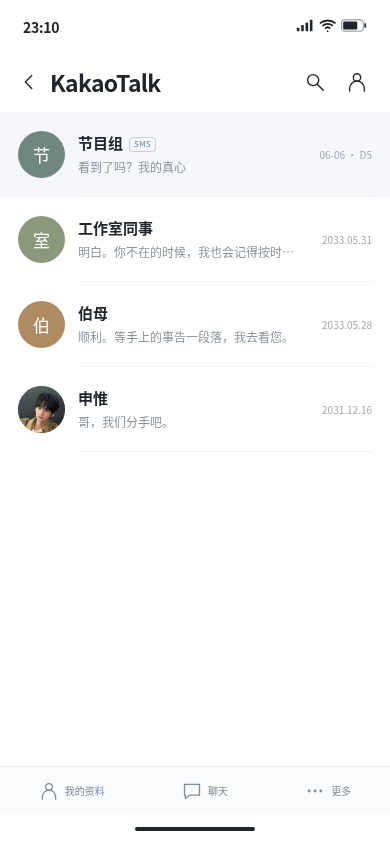
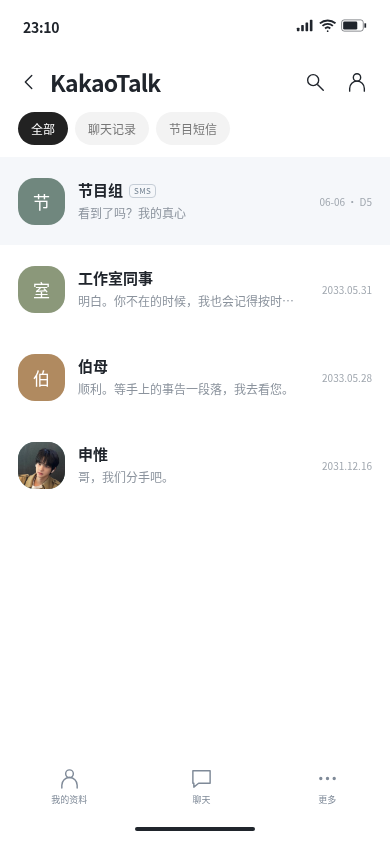
Refine KakaoTalk and iOS-style notes and lock screen

diff --git a/index.html b/index.html
@@ -4283,6 +4283,16 @@ body{background:#141922;color:#20252c;font-family:-apple-system,BlinkMacSystemFo
 @media(max-width:350px){.home{padding:7px 17px 0}.widgets{gap:12px;margin-bottom:20px}.sys-widget{height:111px;padding:13px}.sys-widget .day-number{font-size:40px}.clock-widget svg{width:76px;height:76px}.appgrid{gap:19px 8px}.app-icon{width:51px;height:51px;border-radius:13px}.app{font-size:10px}.dock{padding:10px 13px 6px;border-radius:24px}.dock .app{min-height:51px}.page-dots{padding-bottom:10px}.desktop-spacer{min-height:12px}.chat-list-page .row{padding-left:14px;padding-right:14px}.bubble{font-size:12px}.message-content{max-width:calc(100% - 56px)}}
 @media(max-height:650px){.home{padding-top:3px}.widgets{margin-bottom:15px}.sys-widget{height:105px}.clock-widget svg{height:74px;width:74px}.appgrid{row-gap:16px}.desktop-spacer{min-height:12px}.page-dots{padding-bottom:9px}}
 
+
+/* Reference-led KakaoTalk and iOS surfaces; story data stays in CONFIG. */
+#view[data-page="notes"],#view[data-page="note"]{overflow:hidden}
+.phone[data-mode="notes"],.phone[data-mode="notes"] .status,.phone[data-mode="notes"] .bottom{background:#f2f2f7;color:#111}
+.phone[data-mode="note"],.phone[data-mode="note"] .status,.phone[data-mode="note"] .bottom{background:#fff;color:#111}
+.ios-notes,.ios-note{height:100%;display:flex;flex-direction:column;color:#111;background:#f2f2f7;min-height:0}
+.ios-note{background:#fff}.notes-top{display:flex;align-items:center;justify-content:space-between;gap:12px;padding:10px 16px 17px;flex-shrink:0}.notes-top>div{text-align:center;font-size:16px}.notes-top small{display:block;color:#929297;font-size:12px;margin-top:3px}.glass-button{height:43px;width:43px;border-radius:50%;display:grid;place-items:center;background:#ffffffba;border:1px solid #fff;box-shadow:0 5px 25px #00000008;backdrop-filter:blur(20px);padding:10px;flex-shrink:0}.glass-button svg{width:23px;height:23px}.notes-scroll{flex:1;min-height:0;overflow:auto;padding:0 16px 22px}.notes-scroll h2{font-size:27px;margin:10px 0 19px;letter-spacing:-1px}.notes-group{border-radius:24px;background:white;overflow:hidden}.note-row{display:block;background:white;text-align:left;width:100%;padding:15px 19px;position:relative;min-width:0}.note-row[hidden]{display:none}.note-row+.note-row:before{content:'';position:absolute;top:0;left:19px;right:0;border-top:1px solid #e7e7eb}.note-row strong{display:block;font-size:16px;white-space:nowrap;overflow:hidden;text-overflow:ellipsis}.note-preview{font-size:14px;color:#909095;white-space:nowrap;overflow:hidden;text-overflow:ellipsis;margin-top:5px}.note-date{font-size:11px;color:#97979c;margin-top:5px;line-height:1.5}.notes-search{margin:8px 17px 6px;border:1px solid #fff;border-radius:28px;padding:12px 15px;background:#ffffffc9;box-shadow:0 5px 24px #00000009;display:flex;align-items:center;gap:8px;flex-shrink:0}.notes-search svg{width:22px;height:22px}.notes-search input{width:100%;min-width:0;border:0;background:none;font:inherit;font-size:17px;outline:none}.read-only-tag,.note-mode{font-size:11px;color:#929297;white-space:nowrap}.ios-note .note-paper{flex:1;min-height:0;overflow:auto;background:#fff;padding:5px 24px 30px;margin:0;border:0;border-radius:0;box-shadow:none}.note-paper .timestamp{text-align:center;color:#a0a0a5;font-size:11px;margin:0 0 22px;line-height:1.5}.note-paper h3{font-size:25px;color:#111;line-height:1.4;margin:0 0 18px;letter-spacing:-.6px}.note-paper .prose{font-size:16px;line-height:1.9;color:#252525;overflow-wrap:anywhere}.note-bottom{display:flex;align-items:center;gap:12px;margin:8px 22px;padding:12px 17px;border-radius:28px;box-shadow:0 3px 30px #00000008;background:#fff;color:#999;font-size:11px;align-self:flex-start}.note-bottom svg{width:22px;height:22px;color:#cc9b00}
+.chat-filters{display:flex;gap:7px;padding:0 18px 12px;font-size:12px;color:#777}.chat-filters button{border-radius:19px;padding:8px 13px;background:#f3f3f3}.chat-filters .selected{background:#222;color:#fff}.chat-list-page .row:after{display:none}.chat-list-page .row{min-height:88px}.chat-list-page .avatar,.message .avatar{border-radius:36%}.chat-list-nav{background:#fff;border:0;height:56px}.chat-list-nav button{flex-direction:column;gap:3px;font-size:9px}.chat-list-nav svg{width:23px;height:23px}.chat .header h2{text-align:center}.chat .header{min-height:50px}.chat,.chat .header,.phone[data-mode="chat"] .status,.phone[data-mode="chat"] .bottom{background:#abc1d0}.bubble{font-size:14px;line-height:1.5;border-radius:13px;padding:9px 11px;box-shadow:none}.self .bubble{background:#fee500;border-radius:13px}.first-message:not(.self) .bubble-line .bubble{border-top-left-radius:3px}.self.first-message .bubble{border-top-right-radius:3px}.message{margin-top:5px;margin-bottom:5px}.message.first-message{margin-top:17px}.sender-name{font-size:11px;margin-bottom:5px}.msgtime{font-size:9px}.day{margin:19px 0 23px}.day span{background:#6c829263;color:#fff;padding:6px 13px;border-radius:20px}.readonly-composer{background:#fff;min-height:51px}.readonly-composer span.composer-label{background:#f2f2f2;border:0;font-size:12px;color:#a1a1a5}.phone[data-mode="chat"] .bottom{background:#fff}
+.dock{background:#e4edff3b;border:1px solid #ffffff55;box-shadow:inset 0 1px 0 #ffffff66,0 6px 20px #00000012;backdrop-filter:blur(30px) saturate(1.5);-webkit-backdrop-filter:blur(30px) saturate(1.5);border-radius:33px}.sys-widget{border-radius:27px}.app-icon{border:1px solid #ffffff24;box-shadow:inset 0 1px 0 #ffffff44,0 3px 7px #0002}.lock{padding-top:13px}.lock-label svg{width:17px;height:17px}.lock .date{font-size:17px;letter-spacing:0;margin-top:12px;font-weight:500}.lock .clock{font-size:89px;font-weight:650;letter-spacing:-5px;line-height:1.1;margin-top:0;text-shadow:0 2px 15px #ffffff18}.lock-owner{height:25px;margin:0}.notification{background:#edf2f56e;border:1px solid #ffffff55;color:#182531;box-shadow:inset 0 1px 0 #ffffff44;backdrop-filter:blur(26px);-webkit-backdrop-filter:blur(26px);border-radius:24px}.notification .meta{color:#344651}.unlock{font-size:12px;letter-spacing:0;text-shadow:0 1px 4px #0005}.unlock b{font-size:24px}
+@media(max-width:350px){.notes-top{padding:7px 13px 12px}.notes-scroll{padding-left:13px;padding-right:13px}.note-paper .prose{font-size:14px}.bubble{font-size:13px}.lock .clock{font-size:75px}}
 </style>
 </head>
 <body>
@@ -4352,6 +4362,7 @@ function clockWidget(){
  const [h,m]=CONFIG.device.time.split(':').map(Number),marks=Array.from({length:12},(_,i)=>`<path d="M50 7v5" transform="rotate(${i*30} 50 50)" stroke="currentColor" stroke-width="${i%3?1:2}" opacity="${i%3?.4:.8}"/>`).join('');
  return `<svg viewBox="0 0 100 100" aria-hidden="true">${marks}<path d="M50 50V28" transform="rotate(${(h%12)*30+m/2} 50 50)" stroke="currentColor" stroke-width="3.5" stroke-linecap="round"/><path d="M50 50V17" transform="rotate(${m*6} 50 50)" stroke="currentColor" stroke-width="2.5" stroke-linecap="round"/><circle cx="50" cy="50" r="3" fill="#d7a66e"/></svg>`;
 }
+function filterChatRows(){const kind=document.querySelector('.chat-filters .selected')?.dataset.chatKind||'all',q=document.querySelector('#chat-filter')?.value.trim().toLowerCase()||'';document.querySelectorAll('.chat-list-scroll .row').forEach(row=>{const program=row.classList.contains('program-row');row.hidden=(kind==='private'&&program)||(kind==='program'&&!program)||!row.dataset.search.includes(q)})}
 function chatScroller(){return $('#view .chat-scroll')||$('#view .chat-list-scroll')||$('#view')}
 
 function toast(text){$('#toast').textContent=text;$('#toast').hidden=false;clearTimeout(toastTimer);toastTimer=setTimeout(()=>$('#toast').hidden=true,2400)}
@@ -4364,13 +4375,13 @@ function cluesHTML(ids=[]){return ids.filter(id=>state.clues.includes(id)).map(i
 function render(){
 const v=$('#view'),t=route.type;$('#phone').classList.toggle('wall',['lock','home'].includes(t));$('#status-time').textContent=CONFIG.device.time;$('#status-right').innerHTML=statusIcons();$('#status-right').setAttribute('aria-label',`信号、Wi-Fi、电量 ${CONFIG.device.battery}`);v.dataset.page=t;$('#phone').dataset.mode=t==='chat'?(CONFIG.chats.find(c=>c.id===route.id)?.kind==='program'?'program':'chat'):t;applyWallpaper();
 let html='';
-if(t==='lock')html=`<div class="lock"><div class="lock-label">${esc(CONFIG.device.lockHint)}</div><div class="clock">${esc(CONFIG.device.time)}</div><div class="date">${esc(CONFIG.device.date)}</div><div class="lock-owner">${esc(CONFIG.owner.name)}的手机 · ${esc(CONFIG.device.wallpaperLabel)}</div>${CONFIG.notifications.slice(0,2).map(notification).join('')}<button class="unlock" data-action="unlock"><b>⌃</b>向上滑动解锁 · 也可点击</button></div>`;
+if(t==='lock')html=`<div class="lock"><div class="lock-label">${svg('lock')}</div><div class="date">${esc(CONFIG.device.date)}</div><div class="clock">${esc(CONFIG.device.time)}</div><div class="lock-owner"></div>${CONFIG.notifications.slice(0,2).map(notification).join('')}<button class="unlock" data-action="unlock"><b>⌃</b>向上轻扫以打开</button></div>`;
 else if(t==='home'){
  const ui=CONFIG.interface,extras=ui.launcherExtras;
  html=`<div class="home"><div class="widgets"><button class="sys-widget" data-open="calendar" aria-label="打开日历"><span class="month">${esc(ui.calendar.month)}</span><span class="day-number">${esc(ui.calendar.day)}</span><span class="widget-caption">${esc(ui.calendar.year)}</span></button><div class="sys-widget clock-widget" aria-label="${esc(CONFIG.device.time)}">${clockWidget()}<span class="widget-caption" style="color:#cad5e3">${esc(CONFIG.device.carrier)}</span></div></div><div class="appgrid">${CONFIG.apps.filter(a=>a.id!=='calls').map(a=>appButton(a.id,a.name,a.icon,a.icon,a.id==='chats'?totalUnread():0)).join('')}${extras.map(a=>appButton(a.id,a.name,a.icon,a.className)).join('')}</div><div class="desktop-spacer"></div><div class="page-dots" aria-hidden="true"><i></i><i></i></div><div class="dock">${appButton('calls','最近通话','call')}${appButton('notifications','通知','bell','notifications-icon',CONFIG.notifications.filter(n=>!state.readNotifications.includes(n.id)).length)}${appButton('lock','锁屏','lock','lock-icon')}</div></div>`;
 }
 else if(t==='chats'){
- html=`<div class="chat-list-page">${header('KakaoTalk','',`<button class="icon-button" data-action="search-chats" aria-label="查找聊天">${svg('search')}</button><button class="icon-button" data-open="profile" data-id="self" aria-label="我的资料">${svg('person')}</button>`)}<div class="chat-search" hidden><input id="chat-filter" type="search" aria-label="查找联系人或最后消息" placeholder="查找聊天" autocomplete="off"></div><div class="chat-list-scroll">`+chatList().map(c=>{
+ html=`<div class="chat-list-page">${header('KakaoTalk','',`<button class="icon-button" data-action="search-chats" aria-label="查找聊天">${svg('search')}</button><button class="icon-button" data-open="profile" data-id="self" aria-label="我的资料">${svg('person')}</button>`)}<div class="chat-filters"><button class="selected" data-chat-kind="all">全部</button><button data-chat-kind="private">聊天记录</button><button data-chat-kind="program">节目短信</button></div><div class="chat-search" hidden><input id="chat-filter" type="search" aria-label="查找联系人或最后消息" placeholder="查找聊天" autocomplete="off"></div><div class="chat-list-scroll">`+chatList().map(c=>{
   const who=contact(c.contactId),last=ordered(c).at(-1),stamp=c.kind==='program'?c.listTime:last?.time.slice(0,10).replace(/-/g,'.')||'';
   return `<button class="row ${c.kind==='program'?'program-row':''}" data-open="chat" data-id="${esc(c.id)}" data-search="${esc((who.name+' '+(c.preview||last?.text||'')).toLowerCase())}">${avatar(who)}<span class="row-main"><strong>${esc(who.name)}${c.kind==='program'?'<span class="program-label">SMS</span>':''}</strong><div class="preview">${esc(c.preview||last?.text||'暂无消息')}</div></span><span class="row-end">${esc(stamp)}${unread(c)?`<br><span class="dot">${unread(c)}</span>`:''}</span></button>`;
  }).join('')+`</div><nav class="chat-list-nav"><button data-open="profile" data-id="self">${svg('person')}我的资料</button><button data-action="chat-list-top">${svg('chat')}聊天</button><button data-open="settings">${svg('menu')}更多</button></nav></div>`;
@@ -4404,8 +4415,8 @@ else if(t==='camera'||t==='weather'){
 }
 else if(t==='photos')html=header('相册',`${CONFIG.photos.length} 张`)+`<div class="section-label">MOMENTS / 片刻</div><div class="gallery">`+recent(CONFIG.photos).map(p=>`<button class="photo-card" data-open="photo" data-id="${esc(p.id)}"><span class="art ${p.palette==='night'?'night':''}">${esc(p.title)}</span><strong>${esc(p.title)}</strong><small>${esc(p.date)}</small></button>`).join('')+'</div>';
 else if(t==='photo'){const p=CONFIG.photos.find(x=>x.id===route.id);if(p)html=header(p.title)+`<div class="photo-detail"><div class="art ${p.palette==='night'?'night':''}" role="img" aria-label="${esc(p.description)}">${esc(p.title)}</div><div class="timestamp">${esc(p.date)} · 文字照片</div><div class="prose">${esc(p.description)}</div>${cluesHTML(p.clueIds)}</div>`}
-else if(t==='notes')html=header('备忘录',`${CONFIG.notes.length} 篇`)+`<div class="section-label">NOTES / 日常记录</div>`+CONFIG.notes.map(n=>`<button class="row" data-open="note" data-id="${esc(n.id)}"><span class="row-main"><strong>${esc(n.title)}</strong><div class="preview">${esc(n.body.replace(/\n/g,' · ').slice(0,32)+(n.body.replace(/\n/g,' · ').length>32?'…':''))}</div><div class="timestamp" style="margin:9px 0 0">${esc(n.date)}</div></span><span>›</span></button>`).join('');
-else if(t==='note'){const n=CONFIG.notes.find(x=>x.id===route.id);if(n)html=header('备忘录')+`<article class="note-paper"><h3>${esc(n.title)}</h3><div class="timestamp">${esc(n.date)}</div><div class="prose">${esc(n.body)}</div>${cluesHTML(n.clueIds)}</article>`}
+else if(t==='notes')html=`<section class="ios-notes"><div class="notes-top"><button class="glass-button back" data-action="back" aria-label="返回">${svg('back')}</button><div><strong>全部备忘录</strong><small>本机 · ${CONFIG.notes.length} 篇</small></div><button class="glass-button" data-open="progress" aria-label="查看探索进度">${svg('menu')}</button></div><div class="notes-scroll"><h2>备忘录</h2><div class="notes-group">`+CONFIG.notes.map(n=>`<button class="note-row" data-open="note" data-id="${esc(n.id)}" data-search="${esc((n.title+' '+n.body).toLowerCase())}"><strong>${esc(n.title)}</strong><div class="note-preview">${esc(n.body.replace(/\n/g,' ').slice(0,32))}</div><div class="note-date">${esc(n.date)}</div></button>`).join('')+`</div></div><div class="notes-search"><span>${svg('search')}</span><input id="note-filter" type="search" placeholder="搜索" aria-label="搜索备忘录"><span class="read-only-tag">只读</span></div></section>`;
+else if(t==='note'){const n=CONFIG.notes.find(x=>x.id===route.id);if(n)html=`<section class="ios-note"><div class="notes-top"><button class="glass-button back" data-action="back" aria-label="返回">${svg('back')}</button><span class="note-mode">只读备忘录</span><button class="glass-button" data-open="progress" aria-label="查看已发现的线索">${svg('menu')}</button></div><article class="note-paper"><div class="timestamp">${esc(n.date)}</div><h3>${esc(n.title)}</h3><div class="prose">${esc(n.body)}</div></article><div class="note-bottom"><span>${svg('note')}</span><span>仅查看 · 内容不可编辑</span></div></section>`}
 else if(t==='calls')html=header('最近通话')+`<div class="section-label">RECENTS / 通话记录</div>`+recent(CONFIG.calls).map(c=>`<button class="row" data-open="call" data-id="${esc(c.id)}">${avatar(contact(c.contactId))}<span class="row-main"><strong class="${c.missed?'missed':''}">${esc(contact(c.contactId).name)}</strong><div class="preview">${esc(c.type)}</div></span><span class="row-end">${esc(c.time)}<br>ⓘ</span></button>`).join('');
 else if(t==='call'){const c=CONFIG.calls.find(x=>x.id===route.id);if(c)html=header('通话详情')+`<div class="call-detail">${avatar(contact(c.contactId)).replace('class="avatar"','class="avatar detail-avatar"')}<h3>${esc(contact(c.contactId).name)}</h3><div class="timestamp">${esc(c.time)}</div><p class="${c.missed?'missed':''}">${esc(c.type)}</p><div class="prose">${esc(c.detail)}</div><div class="readonly">仅查看历史记录，不会拨出电话</div>${cluesHTML(c.clueIds)}</div>`}
 else if(t==='notifications')html=header('通知中心')+`<div class="notice-list">${CONFIG.notifications.map(notification).join('')||'<div class="empty">暂无通知</div>'}</div>`;
@@ -4419,8 +4430,8 @@ if(t==='chat'){
 }
 
 }
-$('#phone').addEventListener('click',e=>{const b=e.target.closest('button');if(!b)return;if(b.classList.contains('homebar')){if(route.type==='lock')unlock();else{history=[];route={type:'home'};render()}return}const a=b.dataset.action;if(a==='search-chats'){const box=$('.chat-search');box.hidden=!box.hidden;if(!box.hidden)$('#chat-filter').focus();else{$('#chat-filter').value='';document.querySelectorAll('.chat-list-scroll .row').forEach(r=>r.hidden=false)}return}else if(a==='chat-list-top'){const list=$('.chat-list-scroll');if(list)list.scrollTop=0;return}else if(a==='unlock')unlock();else if(a==='back')back();else if(a==='lock'){history=[];route={type:'lock'};render()}else if(a==='notification'){const n=CONFIG.notifications.find(x=>x.id===b.dataset.id);if(!n)return;add('readNotifications',n.id);if(route.type==='lock'){unlock()}open(n.target.type,n.target.id,n.target.messageId)}else if(a==='reset'){if(confirm('清除这部手机在当前浏览器中的已读状态、线索和探索进度？')){state=fresh();save();history=[];route={type:'lock'};render();toast('探索进度已重置')}}else if(b.dataset.open)open(b.dataset.open,b.dataset.id)});
-document.addEventListener('input',e=>{if(e.target.id==='chat-filter'){const q=e.target.value.trim().toLowerCase();document.querySelectorAll('.chat-list-scroll .row').forEach(row=>row.hidden=!row.dataset.search.includes(q))}});
+$('#phone').addEventListener('click',e=>{const b=e.target.closest('button');if(!b)return;if(b.classList.contains('homebar')){if(route.type==='lock')unlock();else{history=[];route={type:'home'};render()}return}if(b.dataset.chatKind){const kind=b.dataset.chatKind;document.querySelectorAll('.chat-filters button').forEach(x=>x.classList.toggle('selected',x===b));filterChatRows();return}const a=b.dataset.action;if(a==='search-chats'){const box=$('.chat-search');box.hidden=!box.hidden;if(!box.hidden)$('#chat-filter').focus();else{$('#chat-filter').value='';filterChatRows()}return}else if(a==='chat-list-top'){const list=$('.chat-list-scroll');if(list)list.scrollTop=0;return}else if(a==='unlock')unlock();else if(a==='back')back();else if(a==='lock'){history=[];route={type:'lock'};render()}else if(a==='notification'){const n=CONFIG.notifications.find(x=>x.id===b.dataset.id);if(!n)return;add('readNotifications',n.id);if(route.type==='lock'){unlock()}open(n.target.type,n.target.id,n.target.messageId)}else if(a==='reset'){if(confirm('清除这部手机在当前浏览器中的已读状态、线索和探索进度？')){state=fresh();save();history=[];route={type:'lock'};render();toast('探索进度已重置')}}else if(b.dataset.open)open(b.dataset.open,b.dataset.id)});
+document.addEventListener('input',e=>{if(e.target.id==='note-filter'){const q=e.target.value.trim().toLowerCase();document.querySelectorAll('.note-row').forEach(row=>row.hidden=!row.dataset.search.includes(q))}if(e.target.id==='chat-filter'){filterChatRows()}});
 let swipe=null;$('#view').addEventListener('pointerdown',e=>{if(route.type==='lock')swipe={x:e.clientX,y:e.clientY}});$('#view').addEventListener('pointerup',e=>{if(swipe&&route.type==='lock'&&swipe.y-e.clientY>65&&Math.abs(swipe.x-e.clientX)<100)unlock();swipe=null});$('#view').addEventListener('pointercancel',()=>swipe=null);
 document.addEventListener('keydown',e=>{if(e.key==='Escape'){if(route.type!=='lock')back()}if(e.key==='ArrowUp'&&route.type==='lock')unlock()});
 render();
